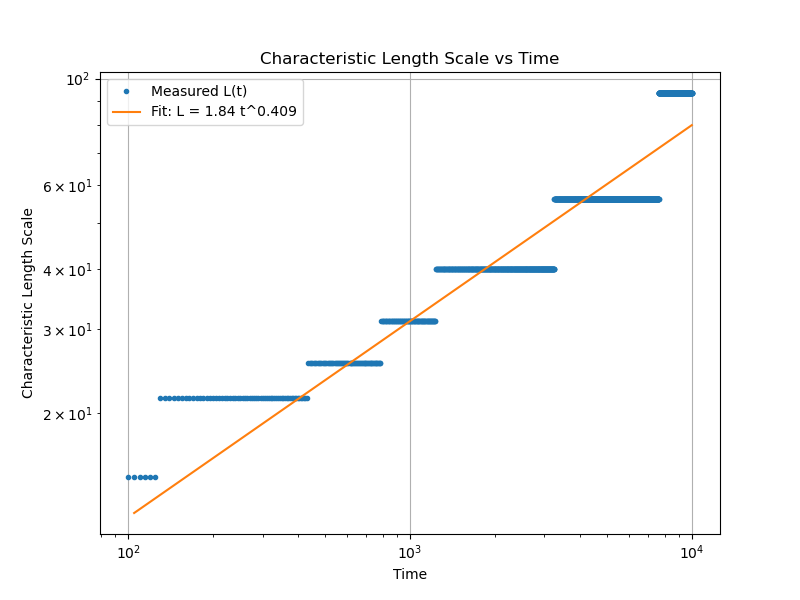
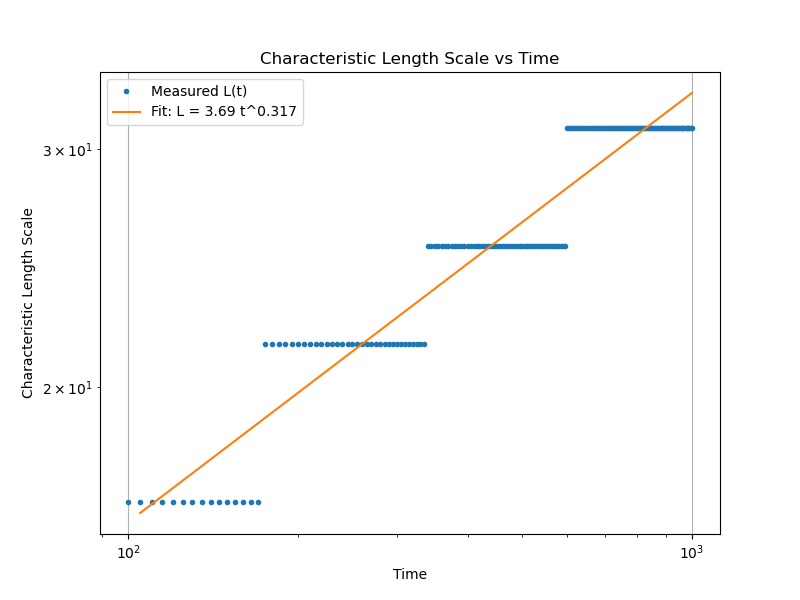
die sache vo sinere mail gmacht

diff --git a/Task4/NonConvex.py b/Task4/NonConvex.py
@@ -7,9 +7,10 @@ N = 128
 deltat = 0.01
 mobility = 1.0
 kappa = 1.0
-alpha = 1.0
+alpha_values = (0.0, 0.1, 0.25, 0.5, 1.0)
 
 deltax = 1.0
+x = np.linspace(-N*deltax/2, N*deltax/2, N, endpoint=False)
 nsteps = 10000
 
 
@@ -27,10 +28,10 @@ def laplacian(field):
 
 
 
-def advance(concentration, alpha):
+def advance(concentration, H):
     """Calculate the concentration field one time step later."""
     chemical_potential = (
-        concentration**3 - concentration - alpha
+        concentration**3 - concentration + H*x/(N*deltax)
         - kappa * laplacian(concentration)
     )
     return concentration + deltat * mobility * laplacian(chemical_potential)
@@ -41,12 +42,12 @@ def create_concfield(n):
     concentration = rng.uniform(-1, 1, size=(n, n))
     return concentration
 
-def run_simulation(alpha):
+def run_simulation(H):
     concentration = create_concfield(N)
     snapshots = [(0, concentration.copy())]
 
     for step in range(1, nsteps + 1):
-        concentration = advance(concentration, alpha)
+        concentration = advance(concentration, H)
 
         if step % 500 == 0:
             snapshots.append((step, concentration.copy()))
@@ -59,17 +60,19 @@ def save_initial_and_final_snapshots(alpha, snapshots):
         Path(__file__).parent
         / "Snapshots"
         / "NonConvex"
+        / f"H_{alpha:g}"
     )
     output_dir.mkdir(parents=True, exist_ok=True)
 
     for step, concentration in (snapshots[0], snapshots[-1]):
         plt.figure()
-        plt.imshow(concentration, cmap="RdBu", vmin=-1, vmax=1)
-        plt.title(f"Concentration at step {step} (alpha={alpha:g})")
+        plt.imshow(concentration, cmap="RdBu", vmin=-3.5, vmax=1)
+        plt.title(f"Concentration at step {step} (H={alpha:g})")
         plt.colorbar(label="Concentration (c)")
         plt.savefig(output_dir / f"conc_snapshot_{step}.png", bbox_inches="tight")
         plt.close()
 
 
 if __name__ == "__main__":
-    save_initial_and_final_snapshots(alpha, run_simulation(alpha))
+    for alpha in alpha_values:
+        save_initial_and_final_snapshots(alpha, run_simulation(alpha))

diff --git a/Task4/AsymmDoubleWell.py b/Task4/AsymmDoubleWell.py
@@ -7,7 +7,7 @@ N = 128
 deltat = 0.01
 mobility = 1.0
 kappa = 1.0
-alpha_values = (0.0, 0.5, 1.0)
+alpha_values = (0.0, 0.1, 0.25, 0.5, 1.0)
 
 deltax = 1.0
 nsteps = 10000
@@ -30,7 +30,7 @@ def laplacian(field):
 def advance(concentration, alpha):
     """Calculate the concentration field one time step later."""
     chemical_potential = (
-        concentration**3 - concentration + alpha
+        concentration**3 - concentration + 3*alpha*concentration**2
         - kappa * laplacian(concentration)
     )
     return concentration + deltat * mobility * laplacian(chemical_potential)
@@ -65,7 +65,7 @@ def save_initial_and_final_snapshots(alpha, snapshots):
 
     for step, concentration in (snapshots[0], snapshots[-1]):
         plt.figure()
-        plt.imshow(concentration, cmap="RdBu", vmin=-1, vmax=1)
+        plt.imshow(concentration, cmap="RdBu", vmin=-3.5, vmax=1)
         plt.title(f"Concentration at step {step} (alpha={alpha:g})")
         plt.colorbar(label="Concentration (c)")
         plt.savefig(output_dir / f"conc_snapshot_{step}.png", bbox_inches="tight")

diff --git a/Task3/task3.py b/Task3/task3.py
@@ -43,11 +43,13 @@ def characteristic_length(concentration):
     return 2 * np.pi / k_max #calculating characteristic length 
 
 
+N=256
+
 # initialize concentration and run the simulation
-concentration = cc.create_concfield(cc.N)
+concentration = cc.create_concfield(N)
 
 start_step = cc.nsteps
-end_step = 100 * cc.nsteps       # 100,000 Schritte insgesamt
+end_step = 10 * cc.nsteps       # 100,000 Schritte insgesamt
 sample_every = 500
 
 time = []
